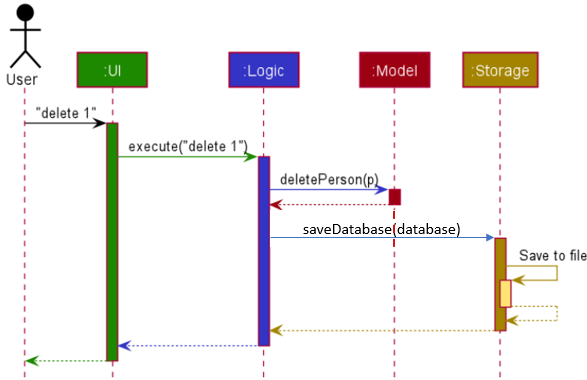
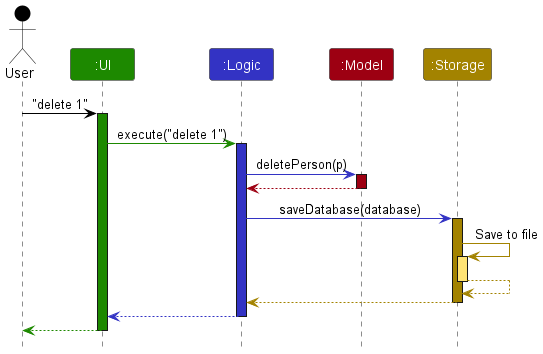
DG updates

Changed region(s): [[0.0295, 0.1243, 1.0, 0.9944], [0.0, 0.0, 0.0884, 0.2486], [0.9429, 0.8079, 0.9724, 0.839]]

diff --git a/docs/DeveloperGuide.md b/docs/DeveloperGuide.md
@@ -30,7 +30,7 @@ Refer to the guide [_Setting up and getting started_](SettingUp.md).
 
 ### Architecture
 
-<img src="images/diagrams/ArchitectureDiagram.png" width="280" />
+<img src="images/diagrams/DeleteCommandUML.png" width="280" />
 
 The **_Architecture Diagram_** given above explains the high-level design of the App.
 
@@ -56,7 +56,7 @@ The rest of the App consists of four components.
 
 The _Sequence Diagram_ below shows how the components interact with each other for the scenario where the user issues the command `delete 1`.
 
-<img src="images/diagrams/ArchitectureSequenceDiagram.png" width="574" />
+<img src="images/diagrams/DeleteCommandUML.png" width="574" />
 
 Each of the four main components (also shown in the diagram above),
 
@@ -140,7 +140,7 @@ The `Model` component,
 
 **API** : [`Storage.java`](https://github.com/se-edu/addressbook-level3/tree/master/src/main/java/coydir/storage/Storage.java)
 
-<img src="images/diagrams/StorageClassiagram.png" width="550" />
+<img src="images/diagrams/StorageClassDiagram.png" width="550" />
 
 The `Storage` component,
 
@@ -259,7 +259,7 @@ Step 5. `storage#saveDatabase` is then called on the current `database`, updates
 
 ### Delete feature
 
-#### Implementation (_Proposed_)
+#### Implementation
 
 This section explains the implementation of the `delete` feature. The command takes in one parameter which is the employee ID, executing the command leads to the removal of the employee with that specific employee ID from coydir.
 
@@ -321,6 +321,64 @@ Step 2. User input is parsed by `ViewCommandParser` which created the `ViewComma
 Step 3. The `execute` method of `ViewCommand` is then called on the object, which returns a `CommandResult` object.
 
 Step 4. This finds the `person` from the list from the `model#getFilteredPersonList` by its index which is `1` in this case. If there does not exist a `person` object with index `1`, a `CommandException` will be thrown and a messafe indicating invalid index given will be shown. If the `person` object exists, then the `MainWindow#handleView` will be trigger, which results in the panel being updated with the correct `person` information.
+
+### Add leave feature
+
+This section explains the implementation of the `add-leave` feature.
+The command takes in 3 parameters: employee ID, start date of leave, and end date of leave.
+
+#### Implementation 
+When a valid input is given, the `add-leave` command will add the given leave period to the employee of the given ID.
+
+- On the UI, the leave period will be added to the leave table shown in the employee profile at the side panel. 
+- The "Leaves-Left" field will also be updated accordingly, which is the deduction of the number of days which the new leave spans, from its previous value.
+
+Below is a sequence diagram and explanation of how `add-leave` is executed. In this example, we will look at the command `add-leave id/1 sd/01-01-2022 ed/01-01-2022`.
+
+<img src="images/diagrams/AddLeaveCommandUML.png" />
+
+Step 1. The user enters the command "add-leave id/1 sd/01-01-2022 ed/01-01-2022".
+
+Step 2. The user input is parsed by `AddLeaveCommandParser` which creates an `AddLeaveCommand` object.
+
+Step 3. The `execute` method of `AddLeaveCommand` is then called on the object.
+
+Step 4. This calls the `model#getPersonList` method, which returns a list of employees.
+
+Step 5. The target employee is then taken from the list by their employee ID from the input.
+
+Step 6. The `Person#addLeave` method is then called on the employee, and the new leave period is added to the employee.
+
+Step 7. This returns a `CommandResult` object, which is returned to the `LogicManager`.
+
+### Delete leave feature
+
+This section explains the implementation of the `delete-leave` feature.
+The command takes in 2 parameters: employee ID, and the one-based index of leave in the leave table of the employee.
+
+#### Implementation 
+When a valid input is given, the `delete-leave` command will delete the given leave period of the employee of the given ID.
+
+- On the UI, the leave period will be removed from the leave table shown in the employee profile at the side panel. 
+- The "Leaves-Left" field will also be updated accordingly, which is the addition of its previous value and the number of days which the deleted leave spans.
+
+Below is a sequence diagram and explanation of how `delete-leave` is executed. In this example, we will look at the command `delete-leave id/1 i/1`.
+
+<img src="images/diagrams/DeleteLeaveCommandUML.png" />
+
+Step 1. The user enters the command "delete-leave id/1 i/1".
+
+Step 2. The user input is parsed by `DeleteLeaveCommandParser` which creates a `DeleteLeaveCommand`.
+
+Step 3. The `execute` method of `DeleteLeaveCommand` is then called on the object.
+
+Step 4. This calls the `model#getPersonList` method, which returns a list of employees.
+
+Step 5. The target employee is then taken from the list by their employee ID from the input.
+
+Step 6. The leave to be removed is created based of its index in the `Queue<Leave>` of the employee, then `Queue#remove` is called with the leave as parameter.
+
+Step 7. This returns a `CommandResult` object, which is returned to the `LogicManager`.
 
 ### BatchAdd
 
